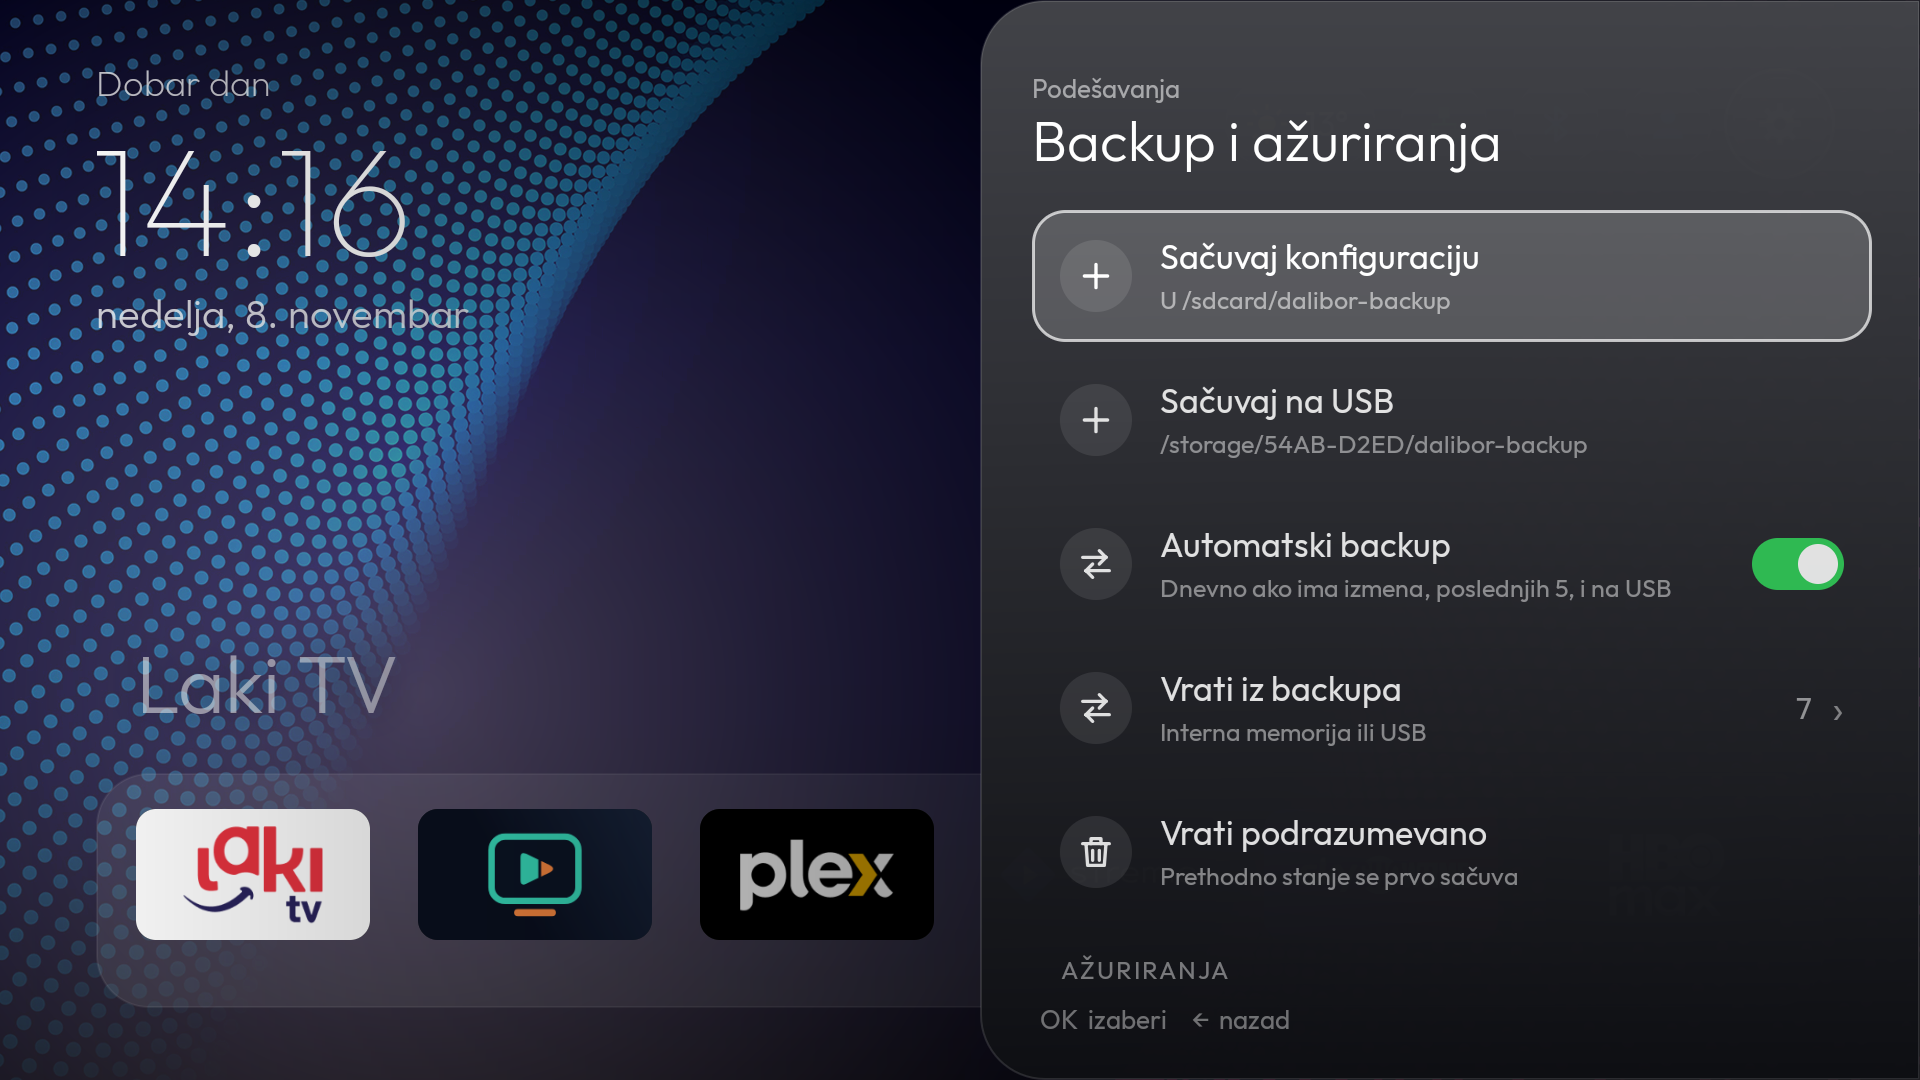
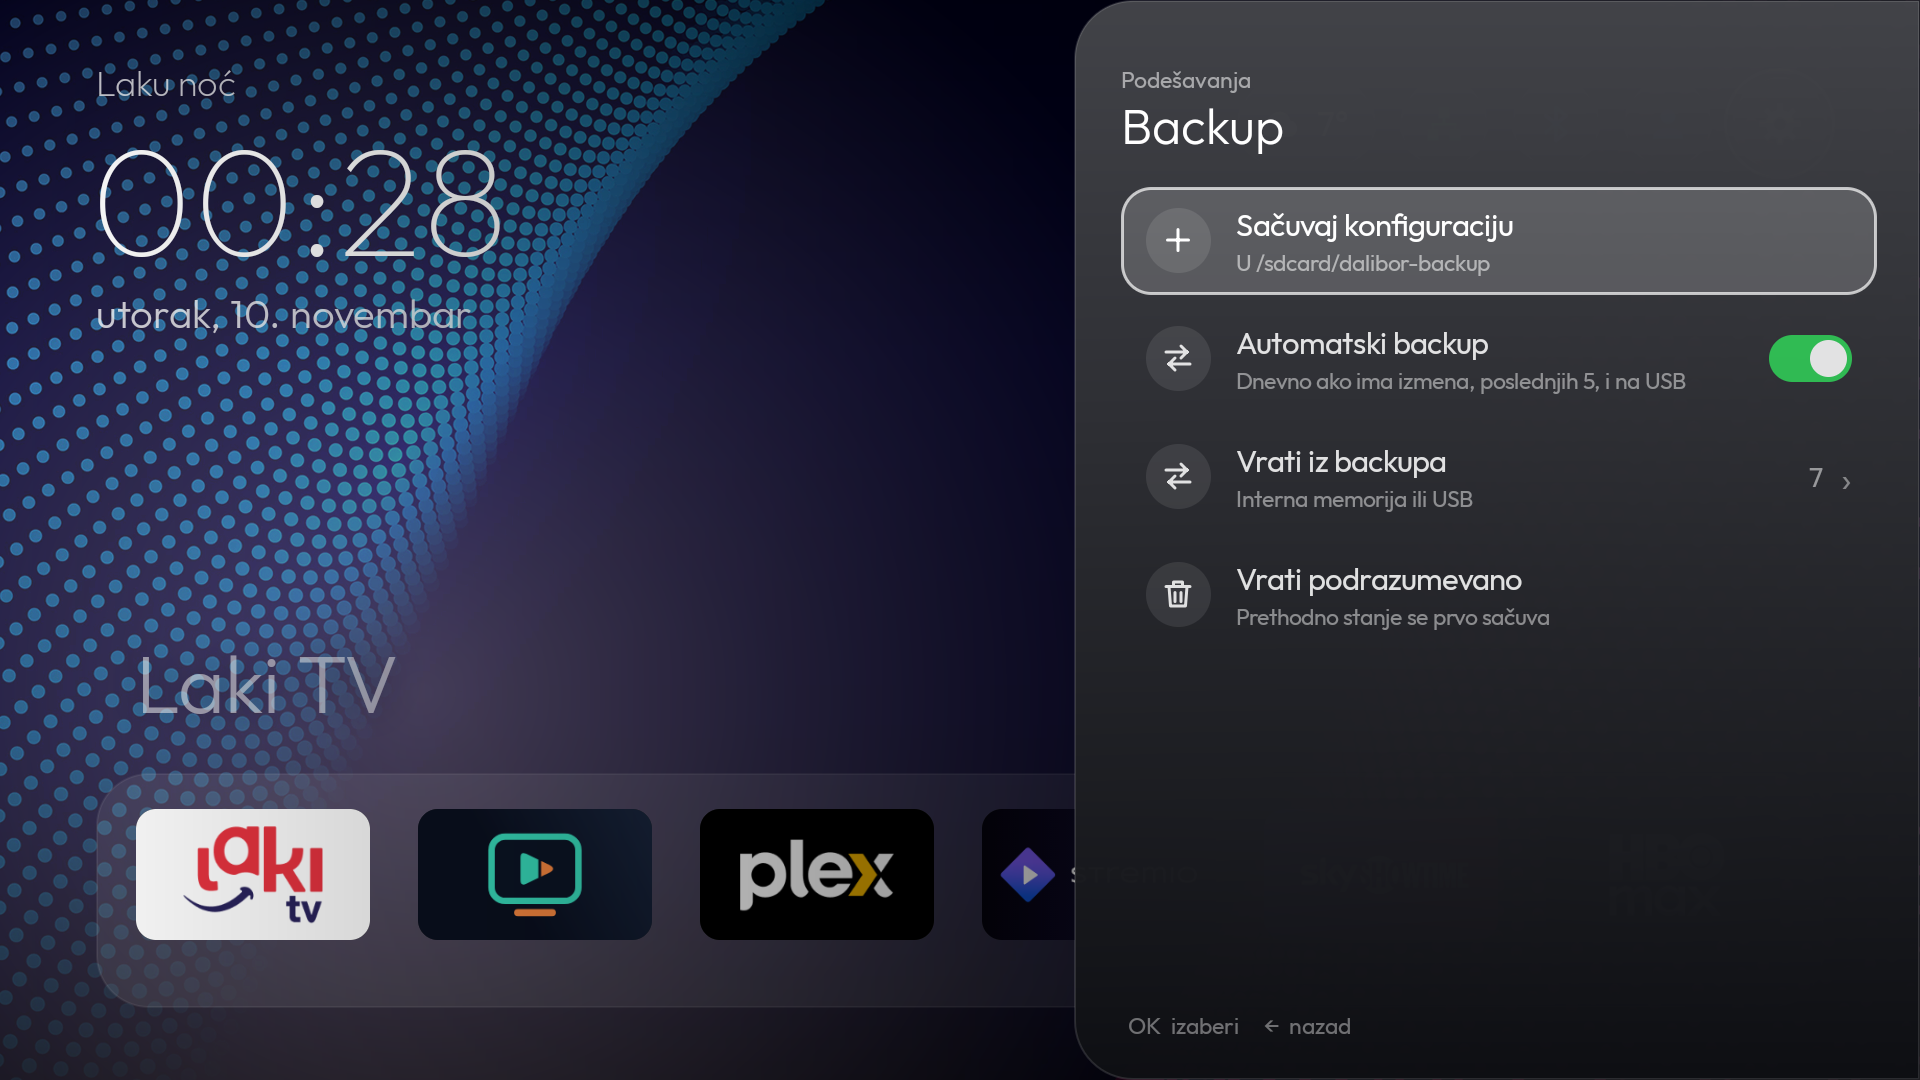
Refresh settings screenshots and document the Updates menu

diff --git a/README.md b/README.md
@@ -53,7 +53,16 @@ A clean, Apple TV inspired home screen for Android TV boxes. No ads, no account,
 - Automatic daily backup when the configuration has changed, keeping the last 5, also copied to USB when one is inserted
 - Reset to defaults
 
-![Backup and updates](docs/backup.png)
+![Backup](docs/backup.png)
+
+### Updates
+- A dedicated menu in Settings, also reachable from About launcher in the System menu
+- The installed version is always shown next to the update check
+- Checks GitHub Releases for new versions, manually or automatically once a day
+- What's new: the list of changes from the latest release notes
+- A new APK is verified by SHA-256 and signature, and installed only after you confirm it
+
+![Updates](docs/updates.png)
 
 ### Look and feel
 - Solid and gradient themes, or your own wallpapers from `/sdcard/Pictures/Pozadine`
@@ -70,7 +79,7 @@ A clean, Apple TV inspired home screen for Android TV boxes. No ads, no account,
 - Sleep timer, sleep now and restart
 - Shortcuts to network and Android settings
 - Bluetooth menu with quick pairing
-- Update check against GitHub Releases, with a list of what is new; an update is installed only after you confirm it
+- Launcher version and firmware name in the System menu
 - Diagnostics screen: firmware, uptime, memory, storage, temperature, network, Bluetooth, USB and permissions
 - Keeps paired Bluetooth LE remotes connected, for boxes whose Bluetooth chip does not reconnect them on its own
 - Configurable color keys and special remote keys (requires the companion service below)
@@ -87,7 +96,7 @@ A clean, Apple TV inspired home screen for Android TV boxes. No ads, no account,
 | **Remote** | Color keys, EON remote keys |
 | **Backup** | Save to internal storage or USB, automatic backup, restore |
 | **Updates** | Installed version, update check, automatic check, what is new |
-| **System** | Power, network, language, Android settings, diagnostics |
+| **System** | Power, network, language, Android settings, diagnostics, firmware name |
 
 Profiles have their own icon on the home screen, next to Settings.
 

diff --git a/README.sr.md b/README.sr.md
@@ -53,7 +53,16 @@
 - Automatski dnevni backup kad ima izmena, čuva poslednjih 5 i kopira ih na USB ako je ubačen
 - Vraćanje na podrazumevana podešavanja
 
-![Backup i ažuriranja](docs/backup.png)
+![Backup](docs/backup.png)
+
+### Ažuriranja
+- Poseban meni u Podešavanjima, a otvara se i preko stavke O launcheru u meniju Sistem
+- Instalirana verzija se uvek vidi kod provere
+- Provera novih verzija na GitHub Releases, ručno ili automatski jednom dnevno
+- Šta je novo: lista promena iz opisa poslednjeg izdanja
+- Novi APK se proverava preko SHA-256 i potpisa, a instalira se samo kad potvrdiš
+
+![Ažuriranja](docs/updates.png)
 
 ### Izgled
 - Jednobojne i prelazne teme ili tvoje slike iz `/sdcard/Pictures/Pozadine`
@@ -70,7 +79,7 @@
 - Tajmer za spavanje, spavanje odmah i restart
 - Prečice do mreže i Android podešavanja
 - Bluetooth meni sa brzim uparivanjem
-- Provera novih verzija na GitHub Releases, sa listom promena; instalira se samo kad potvrdiš
+- Verzija launchera i naziv firmvera u meniju Sistem
 - Dijagnostika: firmware, vreme rada, memorija, temperatura, mreža, Bluetooth, USB i dozvole
 - Održava vezu sa uparenim Bluetooth LE daljinskim, za boxove čiji se BT čip sam ne povezuje ponovo
 - Tasteri u boji i posebni tasteri daljinskog po izboru (traži prateći servis, vidi ispod)
@@ -87,7 +96,7 @@
 | **Daljinski** | Tasteri u boji, tasteri EON daljinskog |
 | **Backup** | Čuvanje u internu memoriju ili na USB, automatski backup, vraćanje |
 | **Ažuriranja** | Instalirana verzija, provera novih verzija, automatska provera, Šta je novo |
-| **Sistem** | Napajanje, mreža, jezik, Android podešavanja, dijagnostika |
+| **Sistem** | Napajanje, mreža, jezik, Android podešavanja, dijagnostika, naziv firmvera |
 
 Profili imaju svoju ikonu na početnom ekranu, pored Podešavanja.
 
